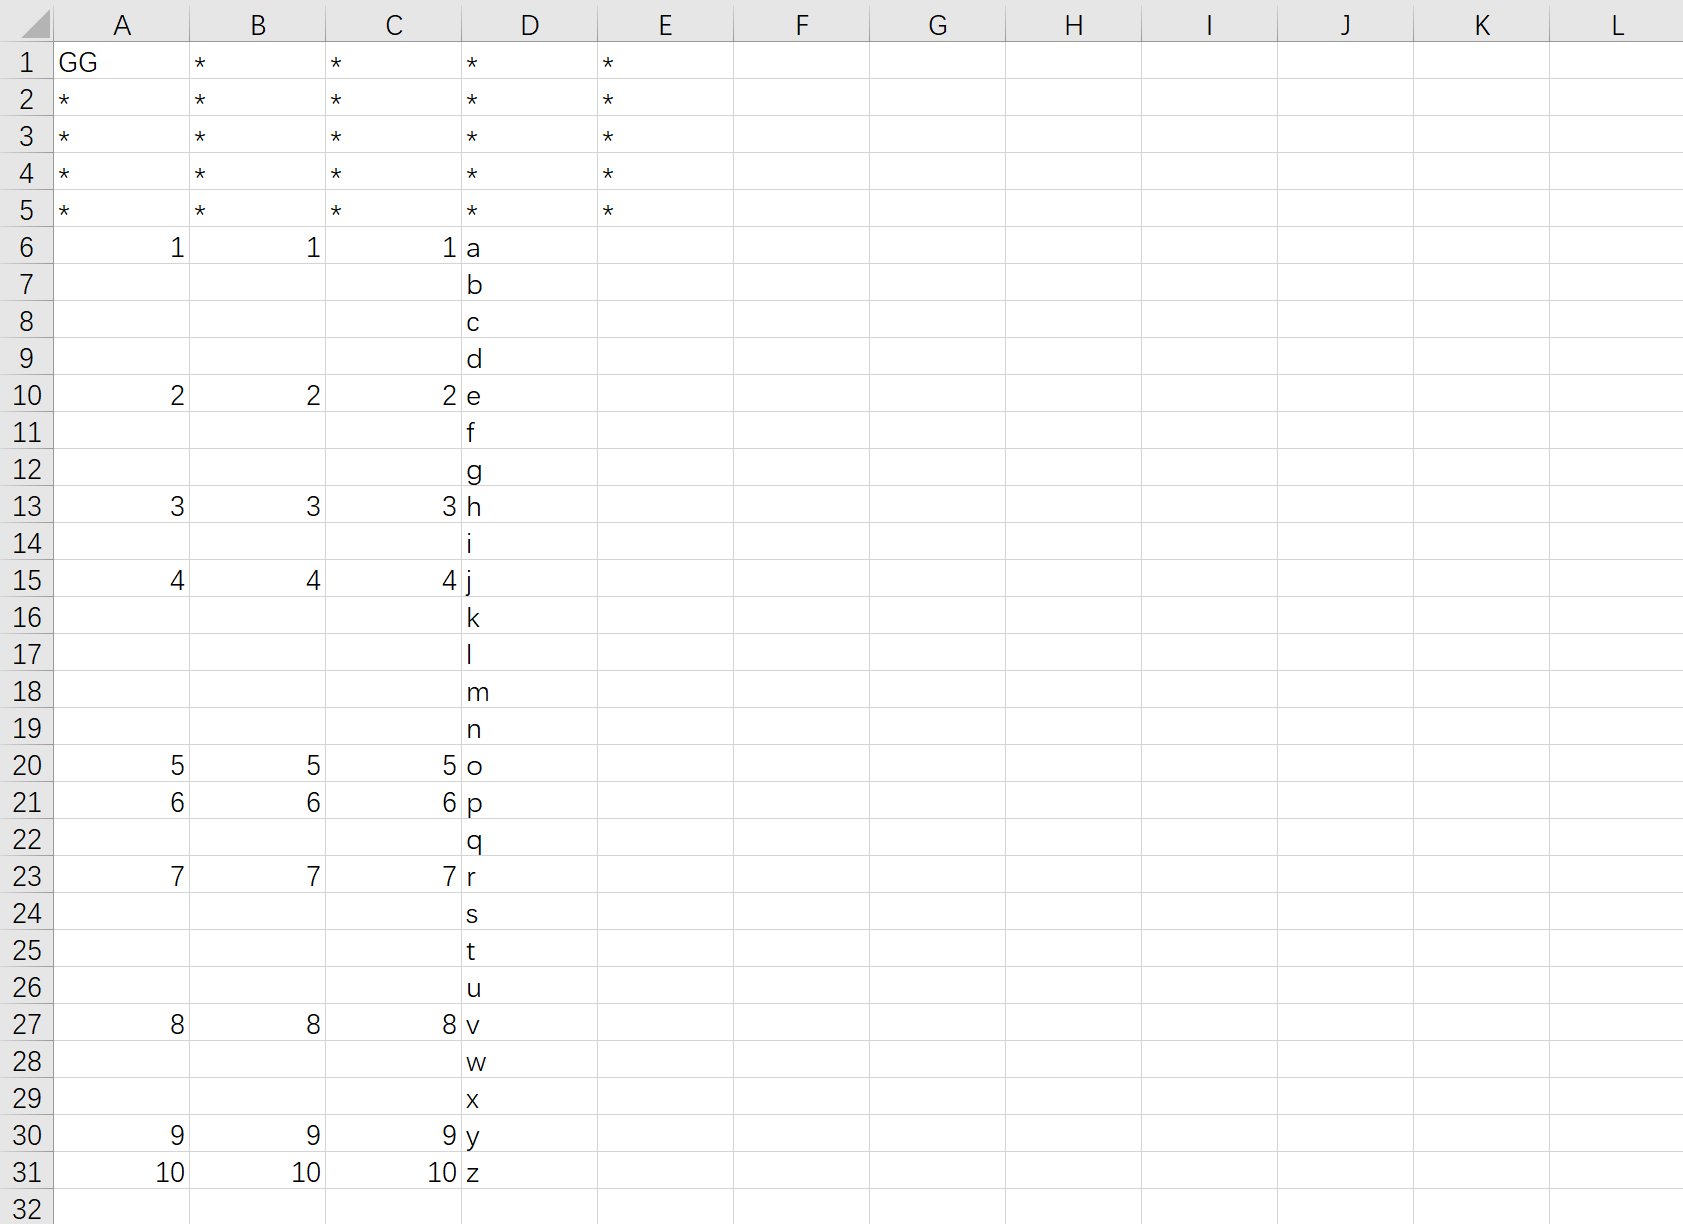
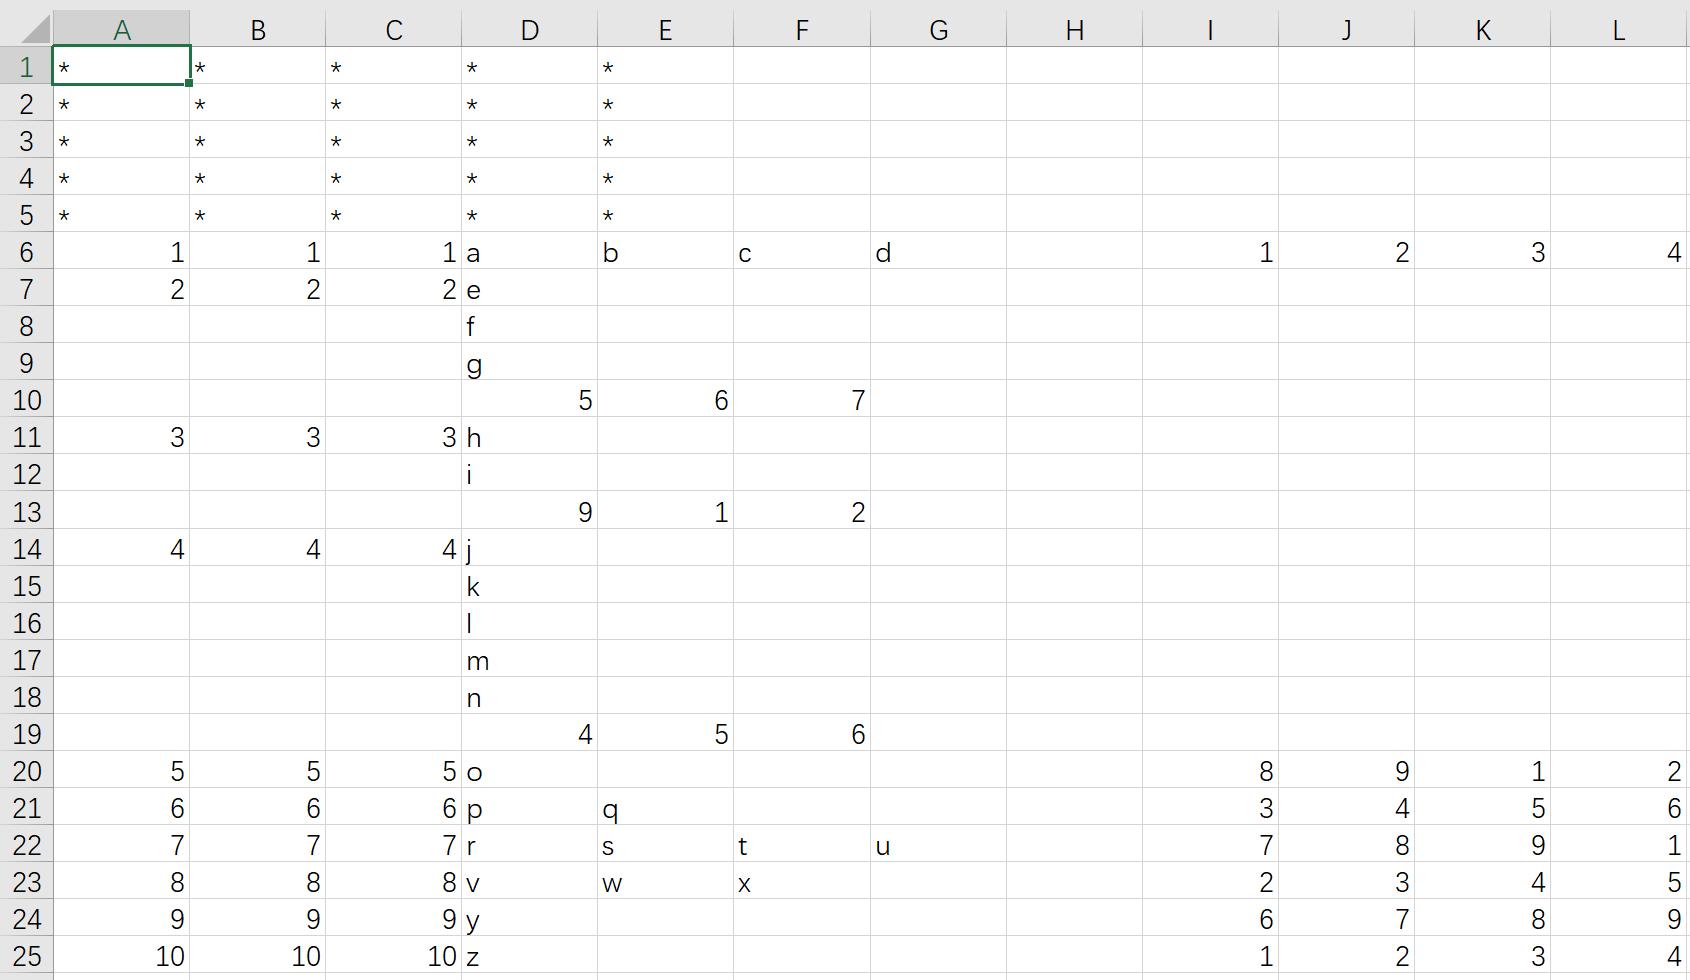
docs: modify the README
Explain the EndRow and EndColumn

diff --git a/CSVTools/Transform.md b/CSVTools/Transform.md
@@ -1,4 +1,4 @@
-**CSVOperation.Transform(ReadName, StartRow, StartColumn, SaveName = '')**
+**CSVOperation.Transform(ReadName, StartRow, StartColumn, EndRow = -1, EndColumn = -1, SaveName = "")**
 
 *Turn the row into column.*
 
@@ -7,6 +7,8 @@
 | ReadName | string | Name of CSV file, without ".csv" |
 | StartRow | int | Start row number |
 | StartColumn | int | Start column number |
+| EndRow | int | End row number, -1 means transform all the rows after StartRow, default: -1 |
+| EndColumn | int | End column number, -1 means transform all the column after EndColumn, default: -1 |
 | SaveName | string | Name of output file without ".csv", default: SaveName + "_transform" |
 
 For example, we want to handle a CSV file named "test.csv", the area in the red box will be turned.
@@ -22,5 +24,5 @@ Code:
 ```
 import CSVOperation
 
-CSVOperation.Transform("test", 6, 4)
+CSVOperation.Transform("test", 7, 4, 9, 8)
 ```

diff --git a/CSVTools/README.md b/CSVTools/README.md
@@ -1,5 +1,11 @@
 # Save your time while operating on CSV file!
 
+## Pre-install libraries
+
+1. csv
+
+## List
+
 There are some functions which will save your time while handling a CSV file.
 
 | Function's name | Description |
